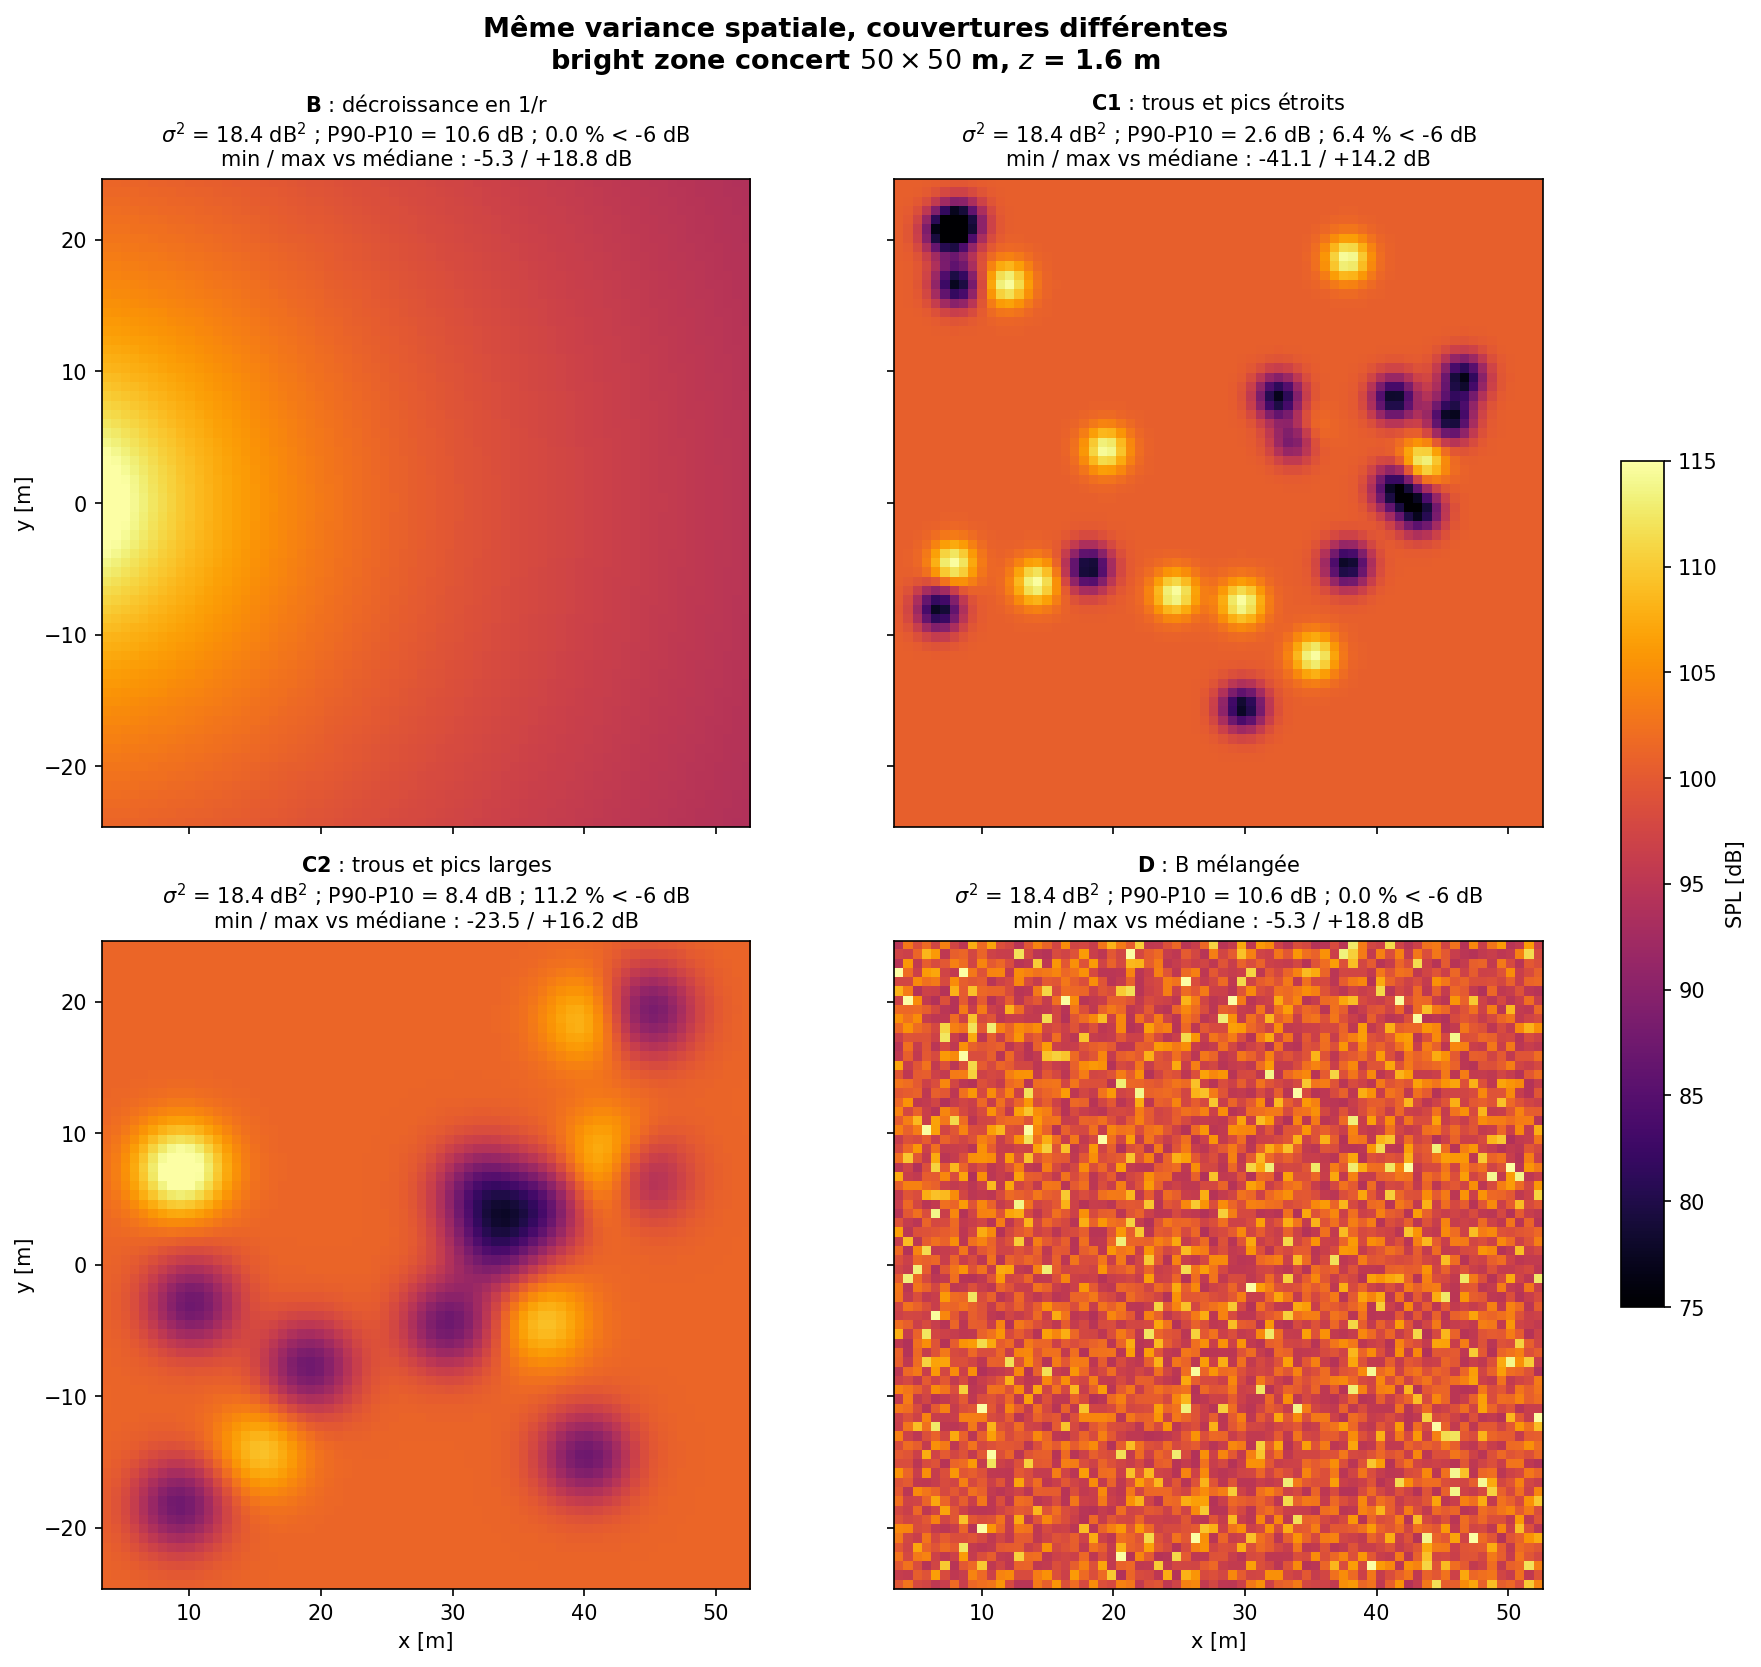
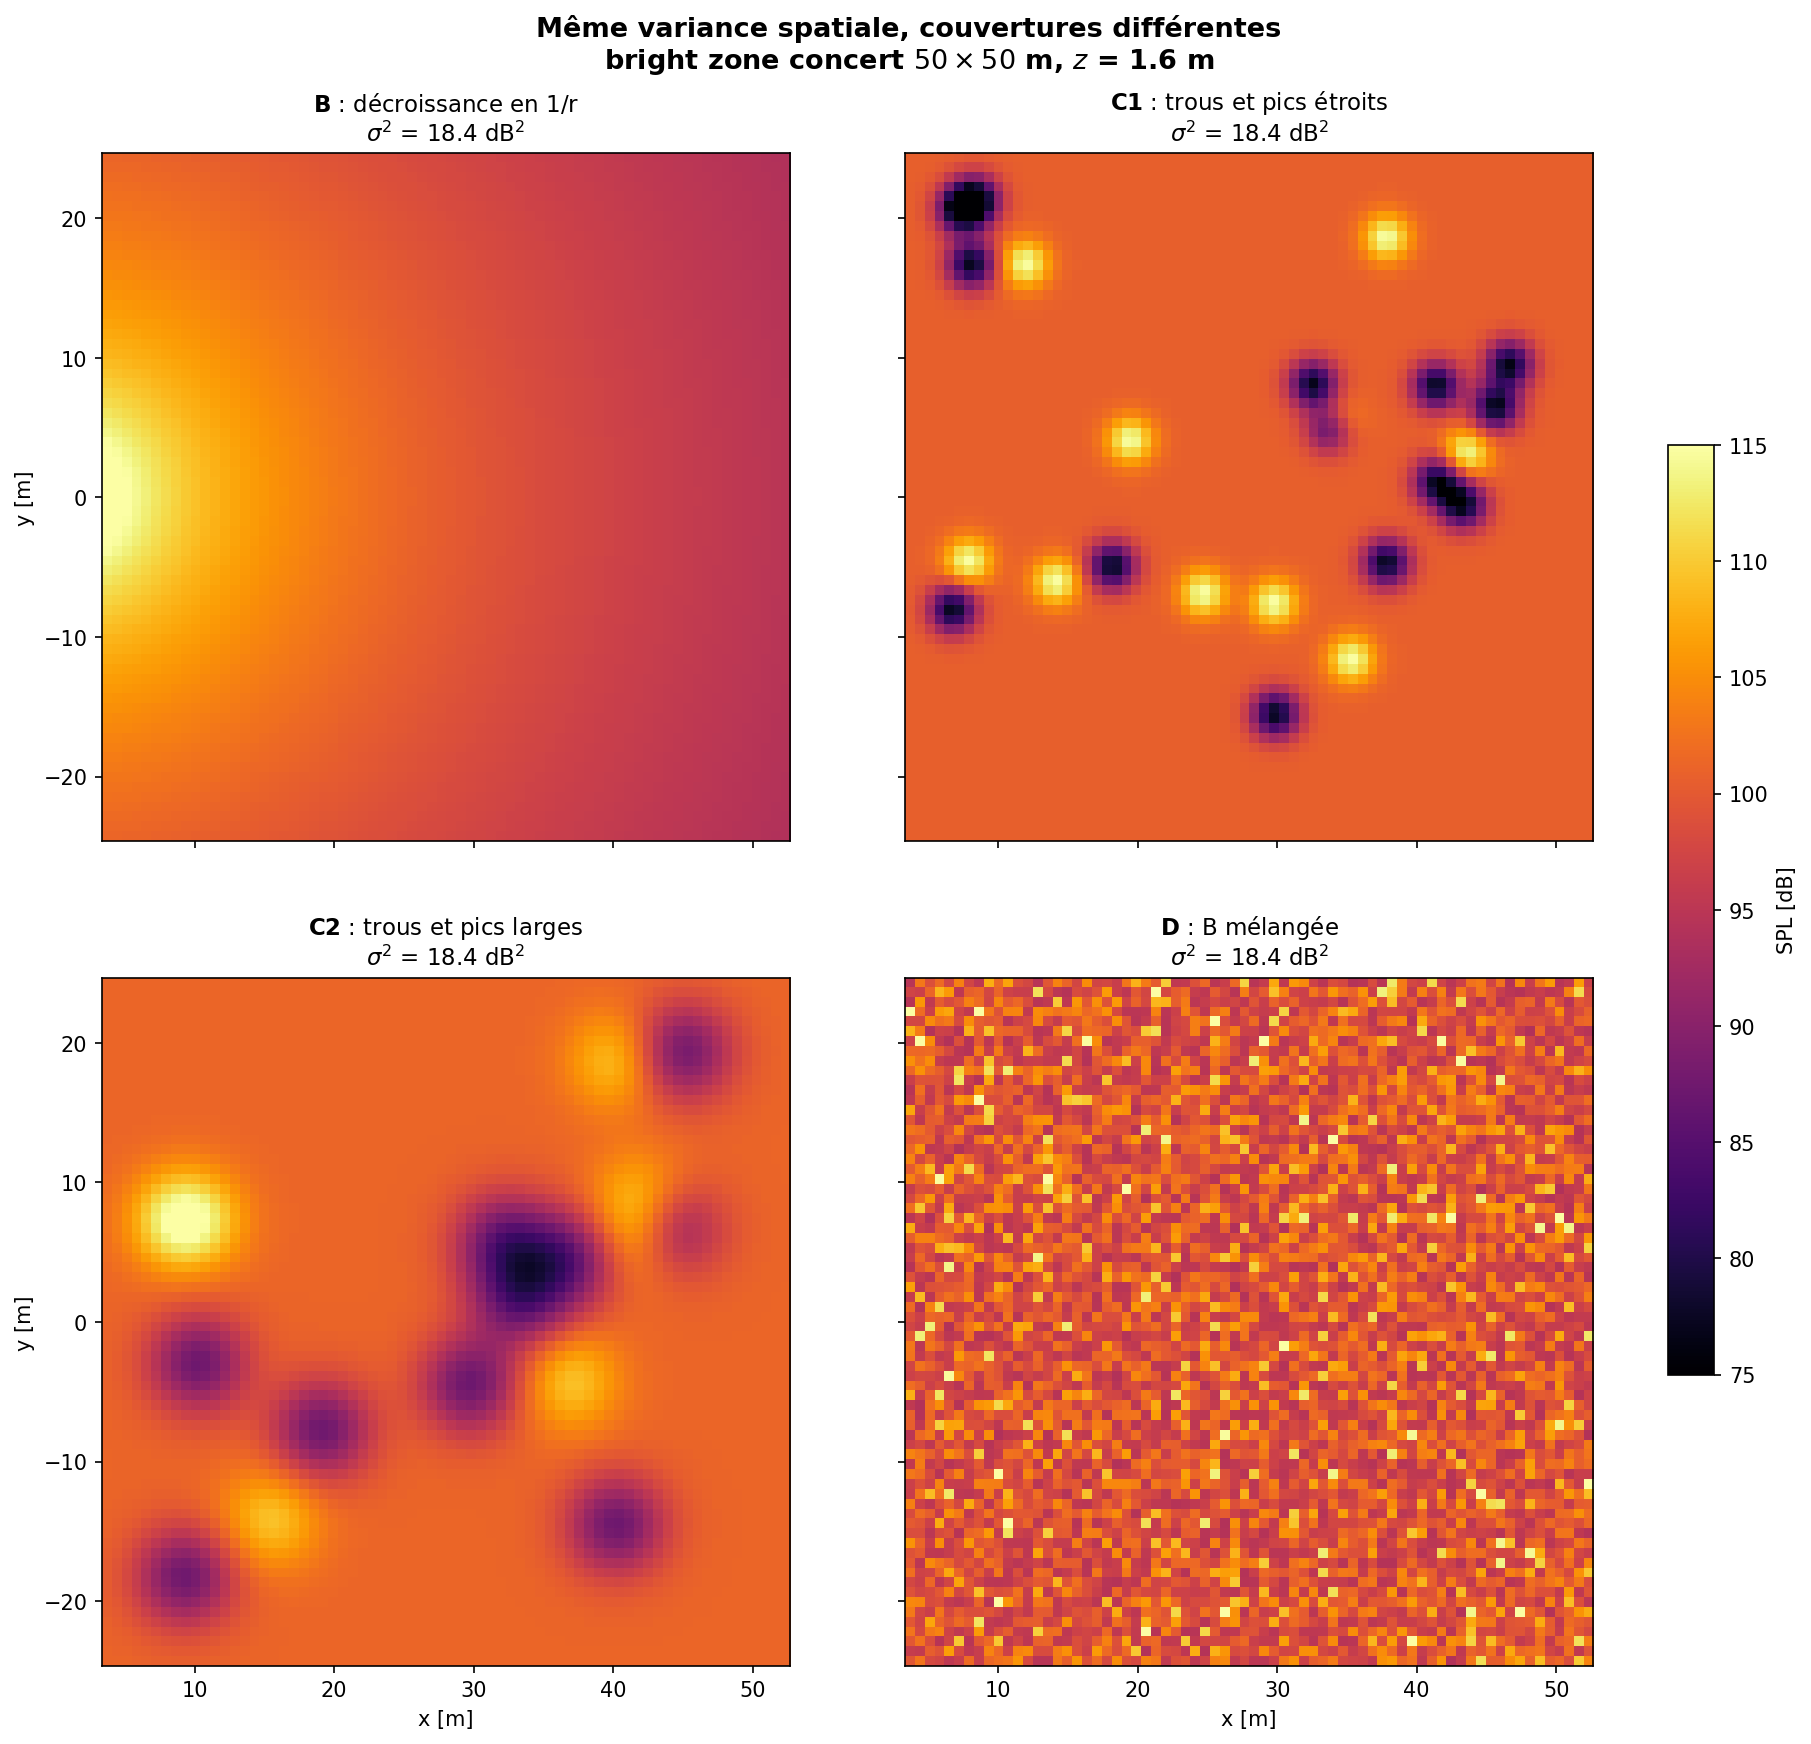
SpatialVar_Limitations : n'affiche que la variance, figure centree
- Retire l'ecart interdecile P90-P10, la part de la zone sous -6 dB et les
  extremes : les quatre cartes n'affichent plus que leur variance spatiale
  (18.4 dB^2), en titre et en console.
- Mise en page 'compressed' : les cartes et la barre de couleur restent
  groupees et centrees quelle que soit la taille de la fenetre.

diff --git a/Configs of Interest/Algorithms/SpatialVar_Limitations/same_variance_maps.py b/Configs of Interest/Algorithms/SpatialVar_Limitations/same_variance_maps.py
@@ -15,11 +15,6 @@ l'homogeneite : la variance ne voit ni la forme de la distribution des niveaux
 (beaucoup de petits ecarts ou quelques trous profonds), ni leur disposition dans
 la zone.
 
-P90-P10 : ecart entre le niveau depasse par 10 % de la zone et celui depasse par
-90 % ; les 80 % centraux du public sont dans cette fenetre. Il ignore les 10 % les
-plus faibles et les 10 % les plus forts : robuste aux creux isoles, mais aveugle a
-un defaut qui touche moins de 10 % de la zone (voir C1).
-
 Bright zone : celle de metrics.py (concert, 50 x 50 m, pas 50/70 m, z = 1.6 m).
 """
 import sys
@@ -38,13 +33,6 @@ rng = np.random.default_rng(0)
 zone = bright_zone('concert')
 x, y = zone[:, 0], zone[:, 1]
 n = int(round(np.sqrt(len(zone))))
-
-
-def stats(L):
-    """sigma^2, ecart interdecile P90-P10 et fraction de la zone a plus de 6 dB sous la mediane."""
-    D = L - np.median(L)
-    p10, p90 = np.percentile(D, [10, 90])
-    return np.var(L), p90 - p10, 100*np.mean(D < -6), D.min(), D.max()
 
 
 # B : decroissance en 1/r, recentree sur L0
@@ -79,17 +67,18 @@ maps = [('B : décroissance en 1/r', L_B),
         ('C2 : trous et pics larges', L_C2),
         ('D : B mélangée', L_D)]
 
-fig, axes = plt.subplots(2, 2, figsize=(12, 11), sharex=True, sharey=True, layout='constrained')
+# 'compressed' : mise en page adaptee aux cartes a rapport d'aspect fixe ; les cartes et la
+# barre de couleur restent groupees et centrees quelle que soit la taille de la fenetre
+fig, axes = plt.subplots(2, 2, figsize=(12, 12), sharex=True, sharey=True, layout='compressed')
+fig.get_layout_engine().set(wspace=0.12, hspace=0.06)
 extent = [x.min(), x.max(), y.min(), y.max()]
 for ax, (title, L) in zip(axes.flat, maps):
-    var, idr, frac, dmin, dmax = stats(L)
+    var = np.var(L)
     im = ax.imshow(L.reshape(n, n), origin='lower', extent=extent, cmap='inferno',
                    vmin=L0 - 25, vmax=L0 + 15, interpolation='nearest')
     ax.set_title(rf'$\bf{{{title.split(" :")[0]}}}$ : {title.split(": ")[1]}' + '\n'
-                 + rf'$\sigma^2$ = {var:.1f} dB$^2$ ; P90-P10 = {idr:.1f} dB ; {frac:.1f} % < -6 dB' + '\n'
-                 + f'min / max vs médiane : {dmin:+.1f} / {dmax:+.1f} dB', fontsize=10)
-    print(f'{title:26s} sigma2 = {var:6.2f} dB2 | P90-P10 = {idr:5.1f} dB | '
-          f'{frac:5.1f} % sous -6 dB | min {dmin:+6.1f} max {dmax:+6.1f} dB')
+                 + rf'$\sigma^2$ = {var:.1f} dB$^2$', fontsize=11)
+    print(f'{title:26s} sigma2 = {var:6.2f} dB2')
 for ax in axes[1]:
     ax.set_xlabel('x [m]')
 for ax in axes[:, 0]:
